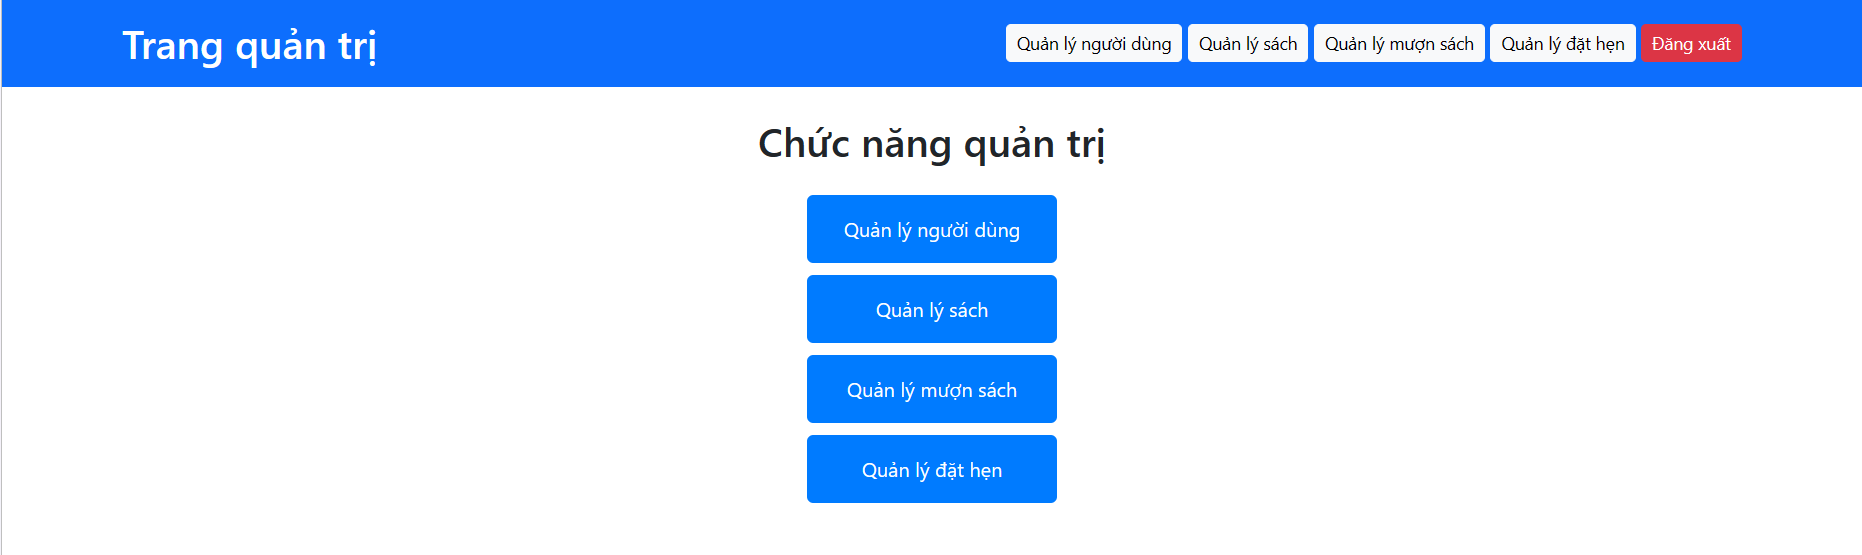
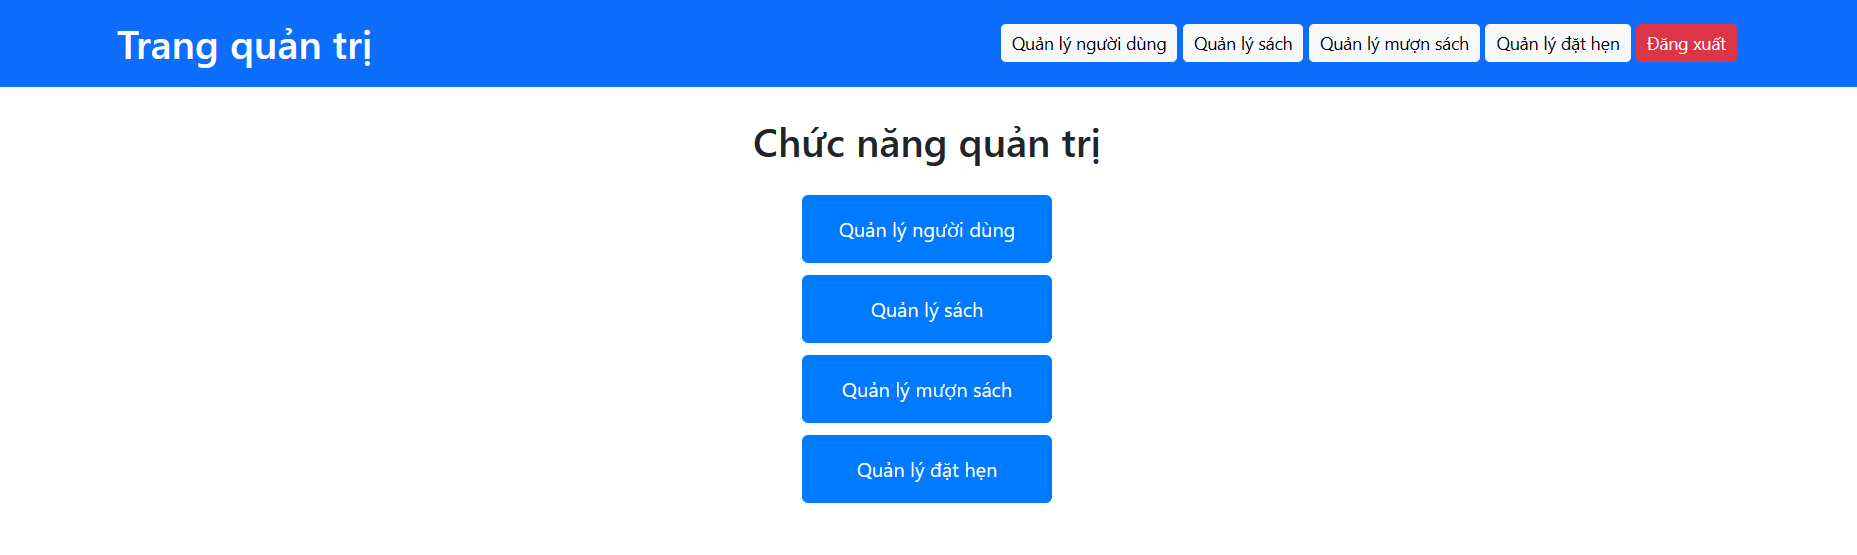
Update UI preview

diff --git a/README.md b/README.md
@@ -4,7 +4,7 @@ A simple library management system base on web using HTML, PHP, Javascripts, CSS
 ## UI preview
 ### Librarian
 #### Homescreen
-![UI_1](https://github.com/trungdang1503/Library-Management-System/blob/main/Image/UI_1.png){style="border: 3px solid red; border-radius: 5px;"}
+![UI_1](https://github.com/trungdang1503/Library-Management-System/blob/main/Image/UI_1.png)
 
 #### Reader management
 ![UI_2](https://github.com/trungdang1503/Library-Management-System/blob/main/Image/UI_2.png)
